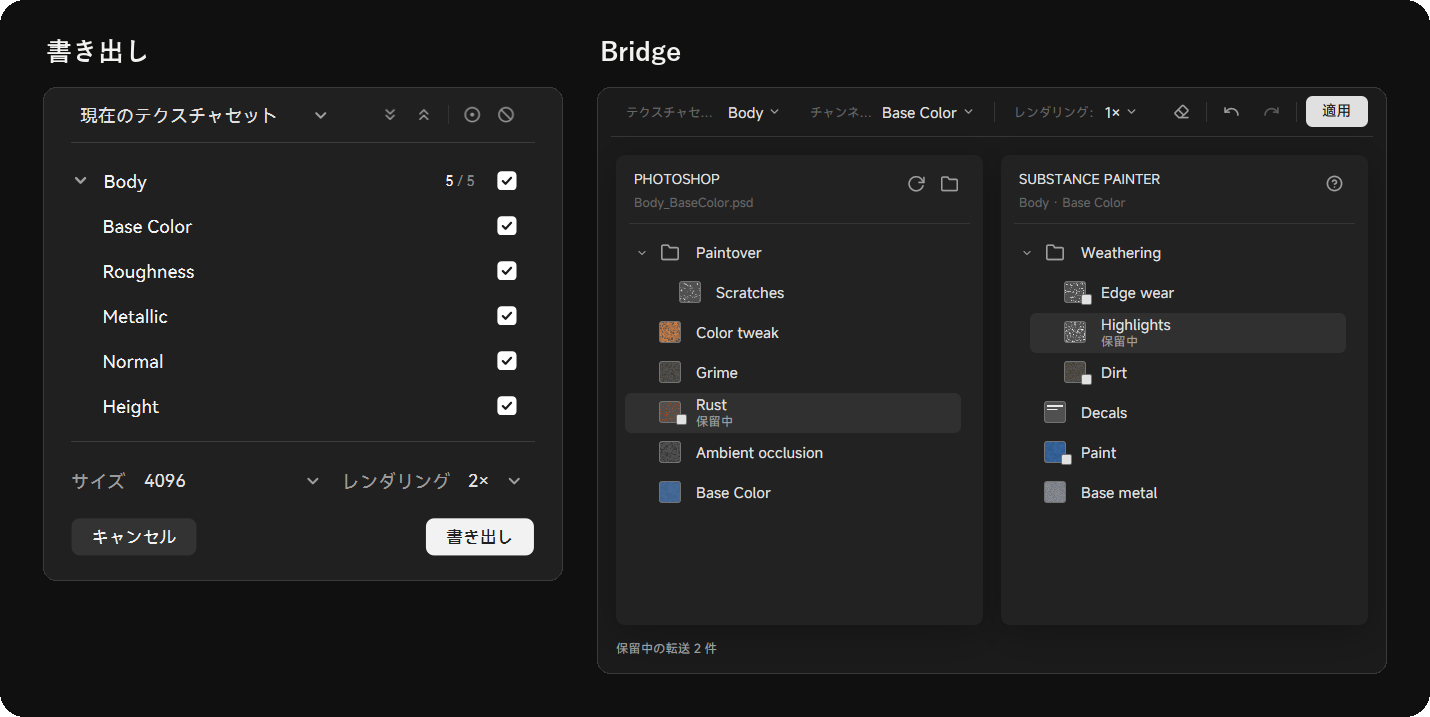
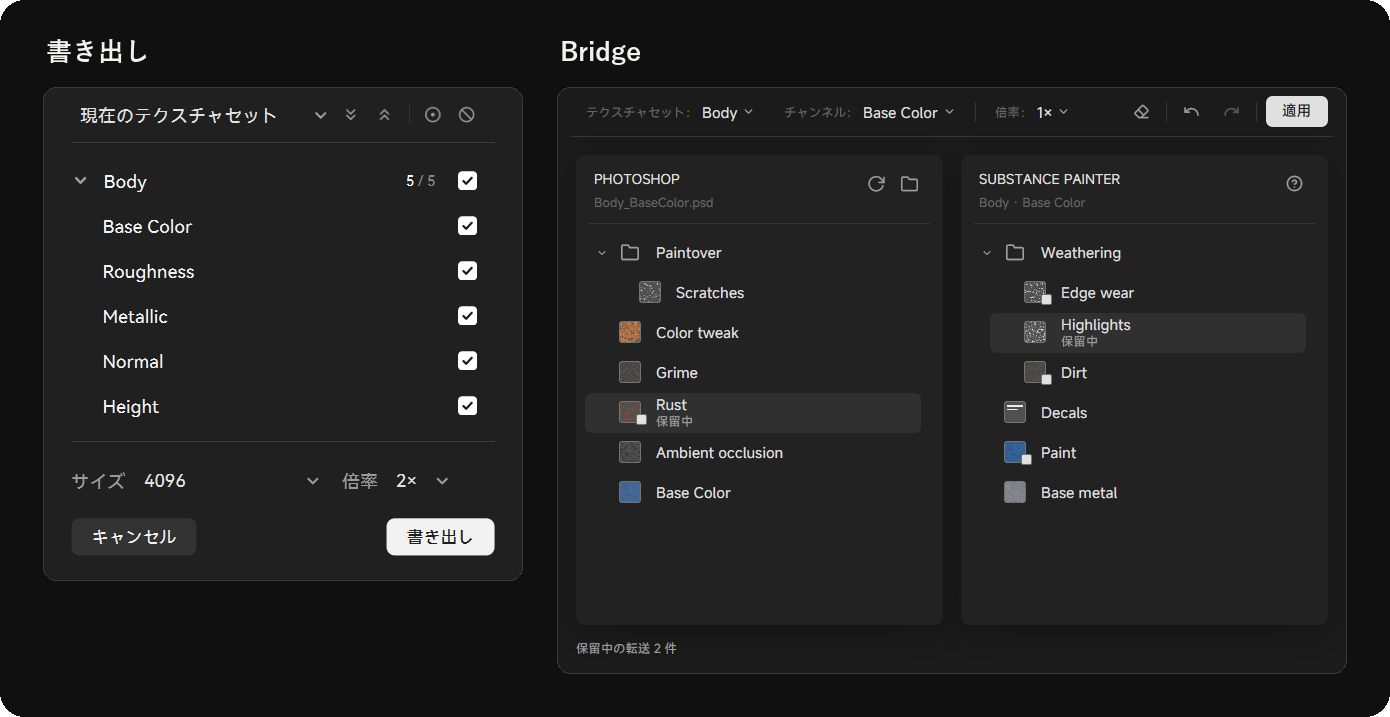
Shorten the longest toolbar labels
Spanish and Portuguese say Texturas for the texture set, and Japanese,
Spanish, Italian and Portuguese name the render scale with a short word
(倍率, Render), in the mapper and the Export dialog alike, so the toolbar
fits whole at its default width.

diff --git a/desktop/src/i18n.ts b/desktop/src/i18n.ts
@@ -38,9 +38,9 @@ type Row = readonly [zh: string, ja: string, ko: string, de: string, fr: string,
 
 export const translations: Record<string, Row> = {
   // Toolbar and panels
-  "Texture Set:": ["纹理集：", "テクスチャセット：", "텍스처 세트:", "Textursatz:", "Jeu de textures :", "Conjunto de texturas:", "Set texture:", "Conjunto de texturas:"],
+  "Texture Set:": ["纹理集：", "テクスチャセット：", "텍스처 세트:", "Textursatz:", "Jeu de textures :", "Texturas:", "Set texture:", "Texturas:"],
   "Channel:": ["通道：", "チャンネル：", "채널:", "Kanal:", "Canal :", "Canal:", "Canale:", "Canal:"],
-  "Render:": ["渲染：", "レンダリング：", "렌더링:", "Rendern:", "Rendu :", "Renderizado:", "Rendering:", "Renderização:"],
+  "Render:": ["渲染：", "倍率：", "렌더링:", "Rendern:", "Rendu :", "Render:", "Render:", "Render:"],
   "Reset mapping": ["重置映射", "マッピングをリセット", "매핑 재설정", "Zuordnung zurücksetzen", "Réinitialiser le mappage", "Restablecer asignación", "Reimposta mappatura", "Redefinir mapeamento"],
   "Undo": ["撤销", "取り消す", "실행 취소", "Rückgängig", "Annuler", "Deshacer", "Annulla", "Desfazer"],
   "Redo": ["重做", "やり直す", "다시 실행", "Wiederholen", "Rétablir", "Rehacer", "Ripeti", "Refazer"],

diff --git a/desktop/src/context-select.test.tsx b/desktop/src/context-select.test.tsx
@@ -52,10 +52,10 @@ describe("Painter context selectors", () => {
     }
   })
 
-  it("keeps the values whole in a long translation at the default width, cutting only the labels", async () => {
+  it("cuts the labels before the values in a narrow window", async () => {
     setLanguage("ja")
     const roomy = await measureToolbar(1000)
-    const fitted = await measureToolbar(700)
+    const fitted = await measureToolbar(620)
     for (const select of ["stack", "channel"] as const) {
       expect(fitted[select].value, select).toBeCloseTo(roomy[select].value, 1)
       expect(fitted[select].label, select).toBeLessThan(roomy[select].label)
